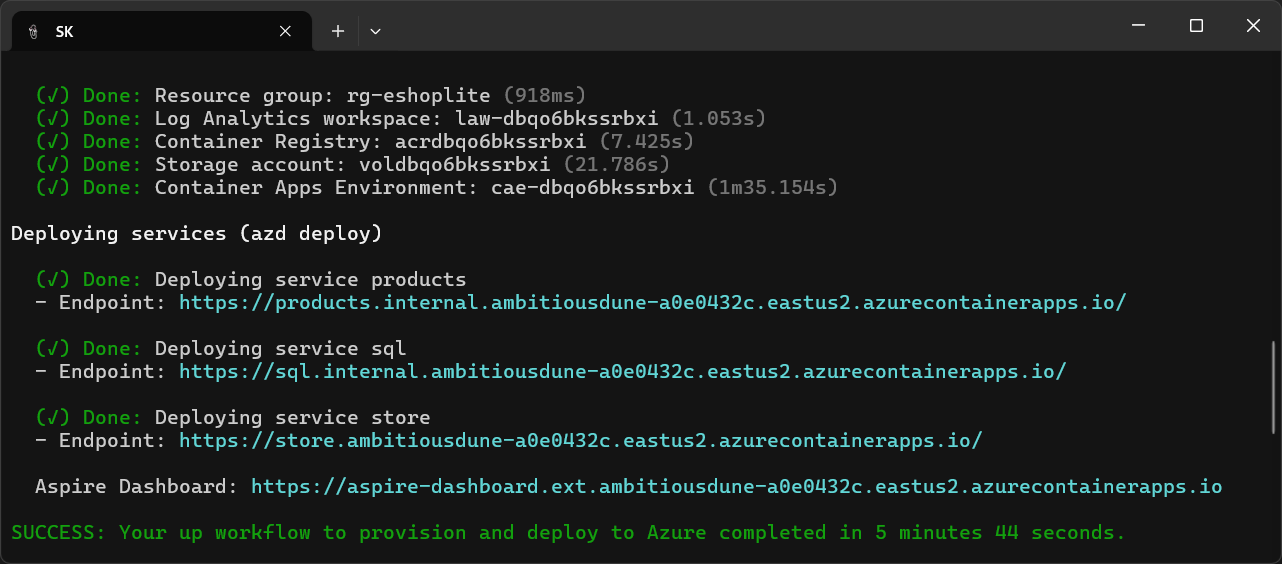
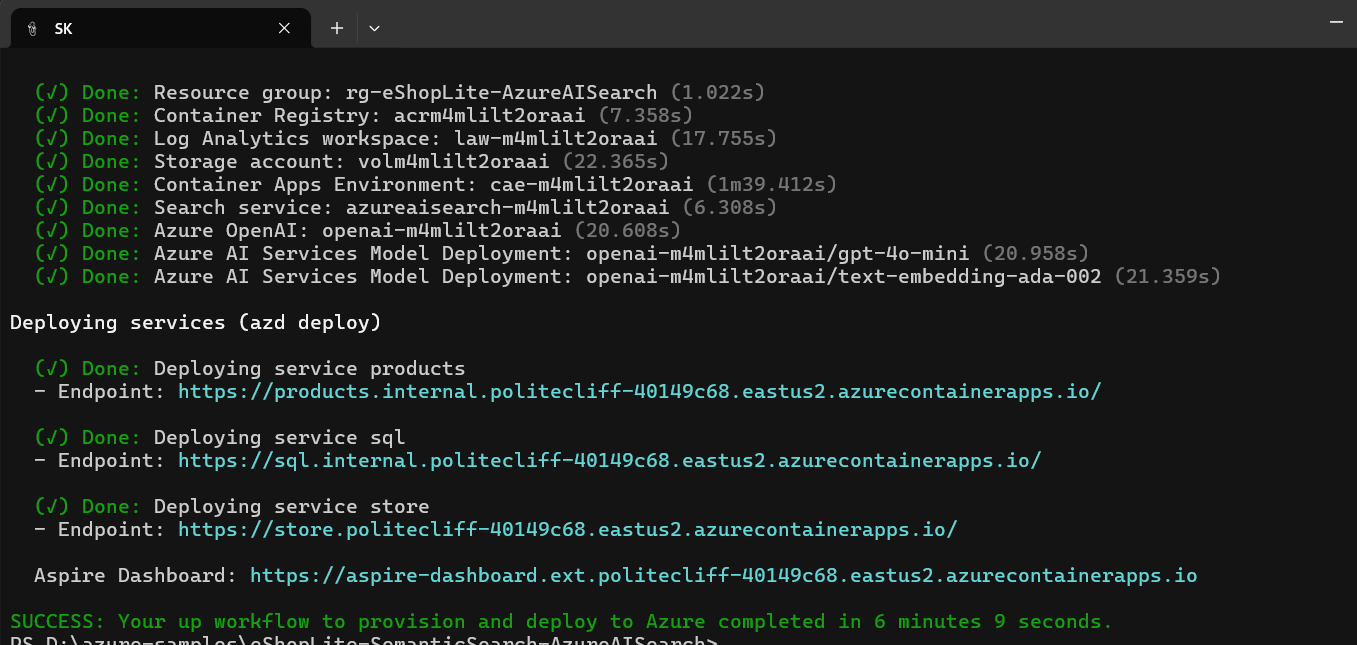
Update README.md with new sections and image paths
The README.md file has been updated to include new sections "Analyze the Vector Store in Azure AI Search" and "Local development using existing services". The table of contents has been updated accordingly. Several images have been updated to new file paths, including those showing the Aspire Dashboard, Azure Resource Group, deployment completion, and Codespace creation. A placeholder for the Architecture diagram has been added with a "Coming soon!" note. Additionally, instructions for using existing Azure services have been provided. Binary files for images 10AzureResources.png, 20AzdUpConsoleComplete.png, and 25CreateCodeSpaces.png were also updated.

Changed region(s): [[0.0, 0.4823, 0.9984, 1.0], [0.0, 0.1206, 0.9048, 0.4521], [0.0, 0.0, 1.0, 0.9947]]

diff --git a/README.md b/README.md
@@ -13,7 +13,8 @@
 - Run solution
   - [Run locally](#run-locally)
   - [Run the solution](#run-the-solution)
-  - [Local dev using an existing model](#local-development-using-an-existing-gpt-4o-model)
+  - [Analyze the Vector Store in Azure AI Search](#analyze-the-vector-store-in-azure-ai-search)
+  - [Local dev using existing services](#local-development-using-an-existing-services)
 - [Resources](#resources)
 - [Video Recordings](#video-recordings)
 - [Guidance](#guidance)
@@ -35,14 +36,15 @@ This is the eShopLite Aplication running, performing a **Semantic Search**:
 
 The Aspire Dashboard to check the running services:
 
-![Aspire Dashboard to check the running services](./images/10AzureResources.png)
+![Aspire Dashboard to check the running services](./images/15AspireDashboard.png)
 
 The Azure Resource Group with all the deployed services:
 
-WWW 
-<!-- WWW ![Azure Resource Group with all the deployed services](./images/15AspireDashboard.png) -->
+![Azure Resource Group with all the deployed services](./images/10AzureResources.png)
 
 ## Architecture diagram
+
+**Coming soon!**
 
 ![Architecture diagram](./images/30Diagram.png)
 
@@ -76,8 +78,7 @@ From a Terminal window, open the folder with the clone of this repo and run the 
 
 1. This is an example of the command output:
 
-WWW
-<!-- ![Deploy Azure Complete](./images/20AzdUpConsoleComplete.png) -->
+  ![Deploy Azure Complete](./images/20AzdUpConsoleComplete.png)
 
 1. **Coming Soon!** You can check this video with a 5 minutes overview of the deploy process from codespaces: [Deploy Your **eShopLite - Semantic Search - Azure AI Search** to Azure in Minutes!]().
 
@@ -87,8 +88,7 @@ WWW
 
 - Create a new  Codespace using the `Code` button at the top of the repository.
 
-WWW
-<!-- ![create Codespace](./images/25CreateCodeSpaces.png) -->
+  ![create Codespace](./images/25CreateCodeSpaces.png)
 
 - The Codespace creation process can take a couple of minutes.
 
@@ -124,9 +124,47 @@ cd ./src/eShopAppHost/
 dotnet run
 ```
 
-### Local development using an existing gpt-4o-mini and ada-002 model
+### Analyze the Vector Store in Azure AI Search
 
-In order to use existing Azure AI Search services and existing Azure OpenAI models: gpt-4o-mini and text-embedding-ada-002, you need to define specific connection strings in the `Products` project.
+To create and fill with data the Vector Store in Azure AI Search, you need to perform a Semantic Search in the application.
+
+![perform a Semantic Search in the application](./images/40SemantiSearchResultinBlazorApp.png)
+
+The first search will fill the Vector Store with all the store products.
+
+![The first search will fill the Vector Store with all the store products.](./images/421stSemanticSearchInitTheVectorStore.png)
+
+When you perform a new Semantic Search, the elapsed time will be must faster than the 1st one.
+
+![the elapsed time will be must faster than the 1st one](./images/442ndSemantiSearchtimes.png)
+
+And the trace will show:
+
+- The search request from `store` to `products`
+- `products` calling the Azure OpenAI embedding model to generate an embedding with the search criteria
+- `products` calling the Azure AI Search to query the vector store using the search criteria
+- `products` calling the Azure OpenAI chat model to generate a user friendly response
+
+![Complete trace for a standard semantic search](./images/46TraceForStandardSemanticSearch.png)
+
+You can also open the Azure AI Search resource in the Azure portal, and check the created index **products** with the data and fields.
+
+![Azure AI Search resource in the Azure portal, and check the created index **products** with the data and fields](./images/48AzureAISearchIndex.png)
+
+
+### Local development using an existing services
+
+In order to use existing Azure AI Search services and existing Azure OpenAI models: gpt-4o-mini and text-embedding-ada-002, you need to make changes in 2 projects:
+
+#### Aspire AppHost
+
+Open the `program.cs` in `.\src\eShopAppHost\eShopAppHost.csproj`, and comment the main aspire lines, and uncomment the lines to only create and run the sqldb, the api project and the front end.
+
+![Comment the aspire lines and uncomment the last lines](./images/30RunUsingExistingServices.png)
+
+#### Products
+
+Edit and define specific connection strings in the `Products` project.
 
 Add a user secret with the configuration:
 
